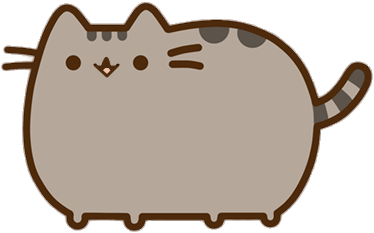
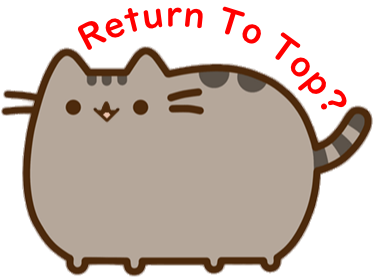
Add return to top button

Changed region(s): [[0.0, 0.0, 1.0, 0.9914], [0.1765, 0.3605, 0.3235, 0.4506], [0.3529, 0.3605, 0.4118, 0.4206]]

diff --git a/assignment/index.html b/assignment/index.html
@@ -1,8 +1,8 @@
 <!DOCTYPE html>
 <html lang="en">
     <head>
-        <!--<meta charset="UTF-8">-->
-        <!--<meta name="viewport" content="width=device-width, initial-scale=1.0">-->
+        <meta charset="UTF-8">
+        <meta name="viewport" content="width=device-width, initial-scale=1.0">
         <link rel="stylesheet" href="./styles.css">
         <title>My Profile</title>
         </head>
@@ -70,5 +70,6 @@
                 <img id="return-to-top-icon" src="../assets/pusheen.png" alt="Pusheen">
             </div>
         </div>
+        <script src="index.js"></script>
     </body>
 </html>

diff --git a/assignment/index.js b/assignment/index.js
@@ -1,0 +1,10 @@
+var scrollToTopButton = document.getElementById('return-to-top');
+
+scrollToTopButton.addEventListener('click', function() {
+    window.scrollTo({
+        top: 0,
+        behavior: 'smooth' 
+    });
+});
+
+
